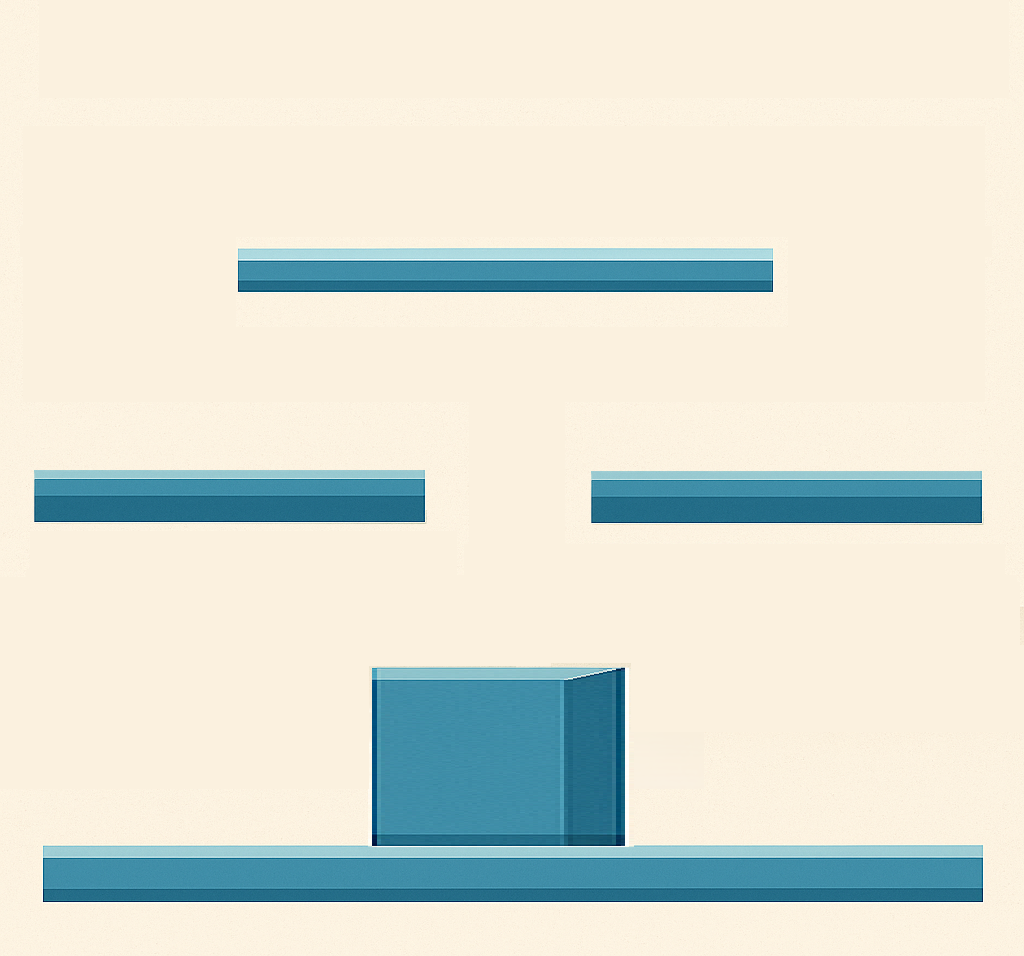
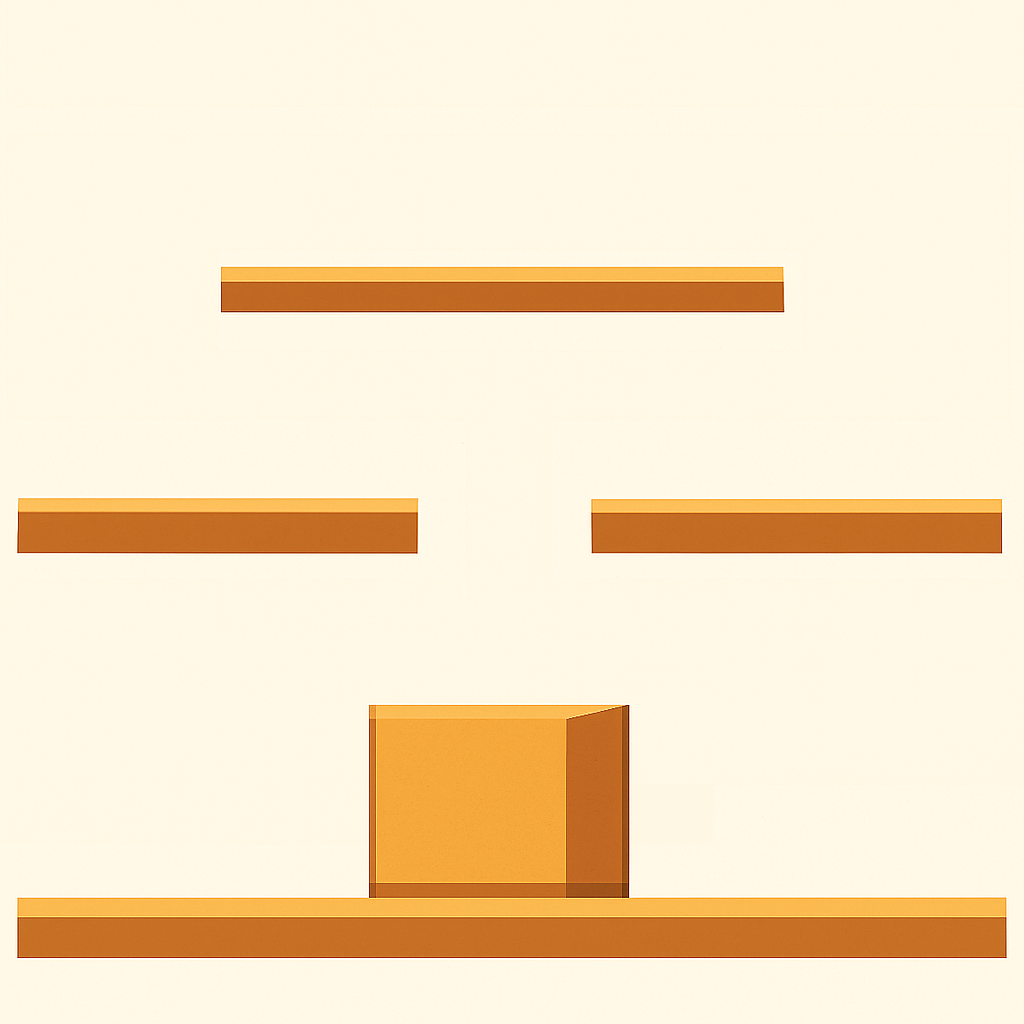
feat：更多的地图、动画

diff --git a/assets/extract_platforms.py b/assets/extract_platforms.py
@@ -3,62 +3,42 @@ import numpy as np
 import cv2
 
 # -------------------------------
-# 配置区域
-LOWER_BLUE = np.array([90,  40, 40])     # HSV蓝色下界
-UPPER_BLUE = np.array([140, 255, 255])   # HSV蓝色上界
-MIN_AREA = 2000                            # 忽略过小区域
-PIXEL_SCALE = 1.0                        # 游戏单位缩放比例
+# 配置区域（RGB方式）
+TARGET_COLORS = [
+    (237, 173, 57),   # 上层黄
+    (160, 87, 34),    # 下层棕
+]
+COLOR_TOLERANCE = 30                # RGB差异容忍范围
+MIN_AREA = 2000                     # 最小识别面积
+PIXEL_SCALE = 1.0
 # -------------------------------
 
-def extract_platforms(image_path, show_preview=True):
-    # 读取图片
+def color_close(c1, c2, tolerance):
+    return all(abs(a - b) <= tolerance for a, b in zip(c1, c2))
+
+def extract_platforms_rgb(image_path, show_preview=True):
     image = Image.open(image_path).convert("RGB")
     img_np = np.array(image)
-    
-    # 转 HSV 掩码图
-    hsv = cv2.cvtColor(img_np, cv2.COLOR_RGB2HSV)
-    mask = cv2.inRange(hsv, LOWER_BLUE, UPPER_BLUE)
 
-    # 膨胀 + 腐蚀，填补间隙
+    # 构造掩码图（将平台色区域设为255，其余设为0）
+    mask = np.zeros((img_np.shape[0], img_np.shape[1]), dtype=np.uint8)
+    for color in TARGET_COLORS:
+        color_mask = np.all(np.abs(img_np - color) <= COLOR_TOLERANCE, axis=-1)
+        mask[color_mask] = 255
+
+    # 闭运算填补缝隙
     kernel = np.ones((3, 3), np.uint8)
     mask = cv2.morphologyEx(mask, cv2.MORPH_CLOSE, kernel, iterations=1)
 
-    # 用轮廓提取出区域
+    # 连通区域检测
     contours, _ = cv2.findContours(mask, cv2.RETR_EXTERNAL, cv2.CHAIN_APPROX_SIMPLE)
 
     rects = []
     for contour in contours:
-        # 生成掩码图：仅当前轮廓区域为白，其余为黑
-        platform_mask = np.zeros(mask.shape, dtype=np.uint8)
-        cv2.drawContours(platform_mask, [contour], -1, 255, thickness=cv2.FILLED)
-
-        # 在这个掩码图上做网格扫描：将所有非0区域切分成最小矩形
-        visited = np.zeros_like(platform_mask, dtype=bool)
-        h, w = platform_mask.shape
-        for y in range(h):
-            for x in range(w):
-                if platform_mask[y, x] == 255 and not visited[y, x]:
-                    # 扫描当前连通块行
-                    x0 = x
-                    while x < w and platform_mask[y, x] == 255 and not visited[y, x]:
-                        visited[y, x] = True
-                        x += 1
-                    width = x - x0
-                    # 扫描高度（纵向向下，保持这一行的横向延展）
-                    height = 1
-                    while y + height < h and np.all(platform_mask[y + height, x0:x0 + width] == 255) \
-                            and not np.any(visited[y + height, x0:x0 + width]):
-                        visited[y + height, x0:x0 + width] = True
-                        height += 1
-                    # 标记区域
-                    visited[y:y + height, x0:x0 + width] = True
-                    if width * height >= MIN_AREA:
-                        rects.append((
-                            int(x0 * PIXEL_SCALE),
-                            int(y * PIXEL_SCALE),
-                            int(width * PIXEL_SCALE),
-                            int(height * PIXEL_SCALE)
-                        ))
+        x, y, w, h = cv2.boundingRect(contour)
+        if w * h >= MIN_AREA:
+            rects.append((int(x * PIXEL_SCALE), int(y * PIXEL_SCALE),
+                          int(w * PIXEL_SCALE), int(h * PIXEL_SCALE)))
 
     # 输出 Qt 格式
     print("QVector<QRect> platformRects = {")
@@ -66,7 +46,6 @@ def extract_platforms(image_path, show_preview=True):
         print(f"    QRect({x}, {y}, {w}, {h}),")
     print("};")
 
-    # 可视化
     if show_preview:
         preview = img_np.copy()
         for x, y, w, h in rects:
@@ -76,4 +55,4 @@ def extract_platforms(image_path, show_preview=True):
         cv2.destroyAllWindows()
 
 if __name__ == "__main__":
-    extract_platforms("default_map.png", show_preview=True)
+    extract_platforms_rgb("default_map.png", show_preview=True)

diff --git a/map.cpp b/map.cpp
@@ -11,19 +11,30 @@ Map& Map::getInstance() {
 void Map::loadScene(const QString& sceneName, QPainter& painter) {
     // qDebug() << "Loading scene: " << sceneName;
     currentSceneName = sceneName;
-    map = QPixmap(":/Maps/assets/default_map.png");
+    map = QPixmap(":/Maps/assets/" + sceneName + "_map.png");
     painter.drawPixmap(QRect(0, 0, map.width(), map.height()), map);
     collisionBox.clear(); // 清除旧的碰撞箱
 
     // 根据场景名称加载不同的碰撞箱数据
-    if (sceneName == "default") {
+    if (sceneName == "ice") {
         collisionBox << QRect(372, 668, 253, 178) << QRect(238, 248, 534, 44)
                      << QRect(592, 475, 490, 48) << QRect(0, 846, 1024, 56)
                      << QRect(0, 474, 425, 48) << QRect(0, 0, 20, 956)
                      << QRect(1004, 0, 20, 956);
-        painter.drawRects(collisionBox);
     }
-
+    else if (sceneName == "default"){
+        collisionBox << QRect(591, 499, 411, 54) << QRect(17, 498, 401, 56)
+                     << QRect(368, 705, 259, 192) << QRect(17, 897, 990, 61)
+                     << QRect(221, 267, 563, 44) << QRect(0, 0, 20, 956)
+                     << QRect(1004, 0, 20, 956);
+    }
+    else if (sceneName == "grass"){
+        collisionBox << QRect(221, 267, 560, 61) << QRect(17, 491, 401, 57)
+                     << QRect(590, 491, 409, 57) << QRect(365, 704, 264, 247)
+                     << QRect(20, 874, 982, 77) << QRect(0, 0, 20, 956)
+                     << QRect(1004, 0, 20, 956);
+    }
+    painter.drawRects(collisionBox);
 }
 
 const QVector<QRect>& Map::getCollisionBoxes() const {

diff --git a/player.h b/player.h
@@ -52,11 +52,20 @@ public:
     ArmorType armor = ArmorType::noArmor;
     int vestHardness = 100;
 
-    void draw(QPainter& painter, bool canHide = false); // 可以隐藏的场景如草地
+    void draw(QPainter& painter); // 可以隐藏的场景如草地
+    static void initSettings(bool canHide, float v){
+        Player::canHide = canHide;
+        velocityratio = v;
+    } // 调整游戏基础数值
+    /* mode=0 正常模式
+     * mode=1 投掷模式：实心球可投掷数量翻倍
+     * mode=2 枪战模式：生命值提高至200，手枪可以射击5次
+     */
 
 private:
     Animation animation;
     float width = 40, height = 60;
+    static bool canHide;
 
     const float gravity = 1500.0f;
     const float moveSpeed = 400.0f; // 最大移速
@@ -64,9 +73,10 @@ private:
     const float resistance = 20.0f; // 不按按键时，左右移动速度的衰减
     const float airResistance = 30.0f; // 不按按键时，空中左右移动速度的衰减
     const float acceleration = 30.0f; // 左右移动时，速度的增加
-    float velocityratio = 1.0; // 最大移速倍率
+    static float velocityratio; // 最大移速倍率，全局生效
+    float selfvelocityratio = 1; // 受肾上腺素影响的倍率
 
-    const float maxHp = 100;
+    float maxHp=100;
     const int maxBalls = 3;
     const int maxBullets = 3;
 };

diff --git a/animation.h b/animation.h
@@ -11,7 +11,9 @@ public:
     void load(const QString& name, const QString& imagePath, int frameWidth, int frameCount);
     void play(const QString& name, bool once=false);  // 切换动画
     void update(bool loop=true);                   // 更新帧，loop=false表示不需要循环播放
-    void draw(QPainter& painter, float x, float y, bool flipped = false);
+    void draw(QPainter& painter, float x, float y, bool flipped, bool armed);
+    void loadWeapon(QString weapon);
+    void paintGun(QPainter &painter, float x, float y);
     QRect getTargetRect();
 
 private:
@@ -20,9 +22,12 @@ private:
         int frameWidth;
         int frameCount;
     };
+    QPixmap weaponImage;
     QMap<QString, AnimData> animations;
+    void paintWeapon(QPainter &painter, QRect targetRect);
     QString currentAnim;
     QRect targetRect;
+    qreal angle = 0;
     int currentFrame;
     int frameCounter; // 控制帧速率
     int frameDelay;

diff --git a/playercontroller.cpp b/playercontroller.cpp
@@ -90,7 +90,6 @@ void PlayerController::handleIntent(QString moveIntent, bool attackIntent){
         player.lock()->state.moveState = "crouch"; // 不在地面忽略
     }
 
-
     if (moveIntent == "jump" && player.lock()->onGround){
         player.lock()->state.moveState = "jump"; // 用户在地面的jump意图会使得状态变为jump，直到自动变成fall
     }
@@ -150,7 +149,7 @@ void PlayerController::receiveHit(float damage, QString direction) {
         player.lock()->vx = -60;
         player.lock()->vy = -400;
     }
-    qDebug() << cooldowns["hurt"] << "Player 受到伤害：" << damage;
+    //qDebug() << cooldowns["hurt"] << "Player 受到伤害：" << damage;
     player.lock()->state.moveState = "hurt";
     player.lock()->update();
 }

diff --git a/combatmanager.cpp b/combatmanager.cpp
@@ -34,8 +34,8 @@ void CombatManager::checkPlayerVsPlayerCollision(PlayerController *p1, PlayerCon
 
 void CombatManager::checkEntityVsPlayerCollision(Entity *e, PlayerController *p){
     if (e->hitbox().intersects(p->getHitbox())) {
-        bool p1LeftOfP2 = e->hitbox().right() < p->getHitbox().left();
-        QString dirToP2 = p1LeftOfP2 ? "right" : "left";
+        bool p1LeftOfP2 = e->getDir();
+        QString dirToP2 = p1LeftOfP2 ? "left" : "right"; // 被撞后应该往哪飞
         e->onCollideWithPlayer(); // 多态自动决定子类行为
         p->receiveHit(e->getDamage(), dirToP2);
     }

diff --git a/widget.cpp b/widget.cpp
@@ -6,7 +6,8 @@ Widget::Widget(QWidget *parent)
     , ui(new Ui::Widget) // 初始化已定义但未赋值的变量，大括号内是要做的操作
 {
     setFocusPolicy(Qt::StrongFocus);  // 获取键盘焦点
-    currentScene = "default";
+    currentScene = "ice";
+    Player::initSettings(false, 1.5);
     intent[0].moveIntent = "null";
     intent[0].attackIntent = false;
     intent[1].moveIntent = "null";

diff --git a/entity.h b/entity.h
@@ -11,6 +11,7 @@ public:
     virtual void onCollideWithPlayer(){};
     virtual float getDamage(){return 0;};
     virtual QRect hitbox(){};
+    bool getDir(){ return (velocity.x() > 0);}; // 右true，左false，用于撞击方向判断
     void stop(); // 施加阻力
     void applyGravity(); // 施加重力
     void setDt(float t); // 设置实时帧率
